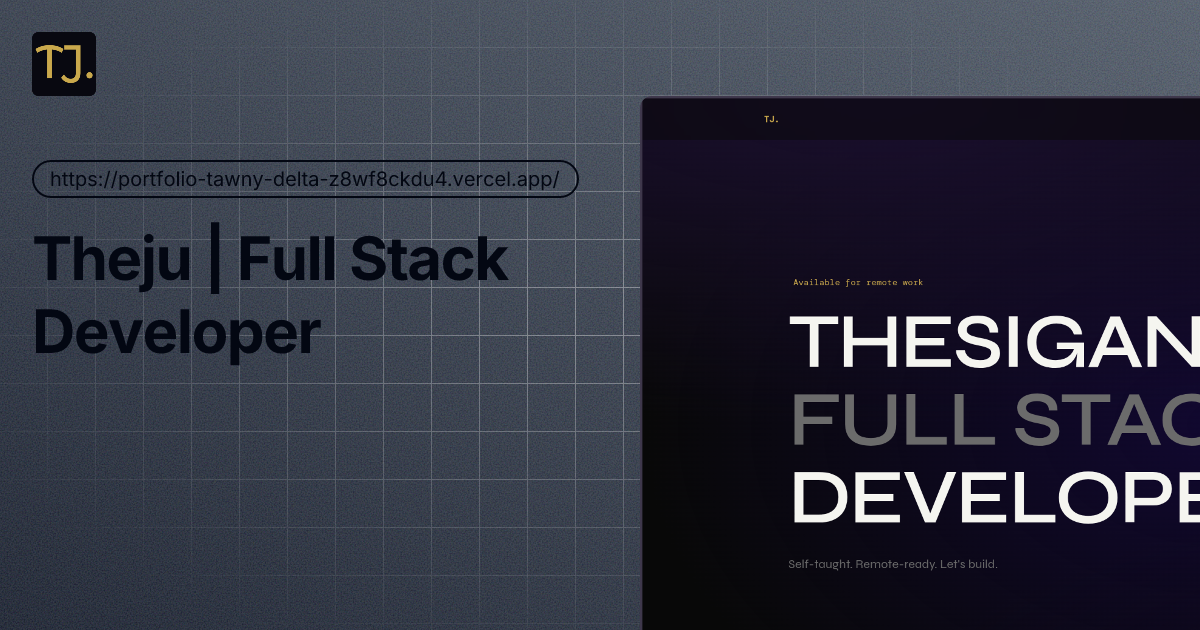
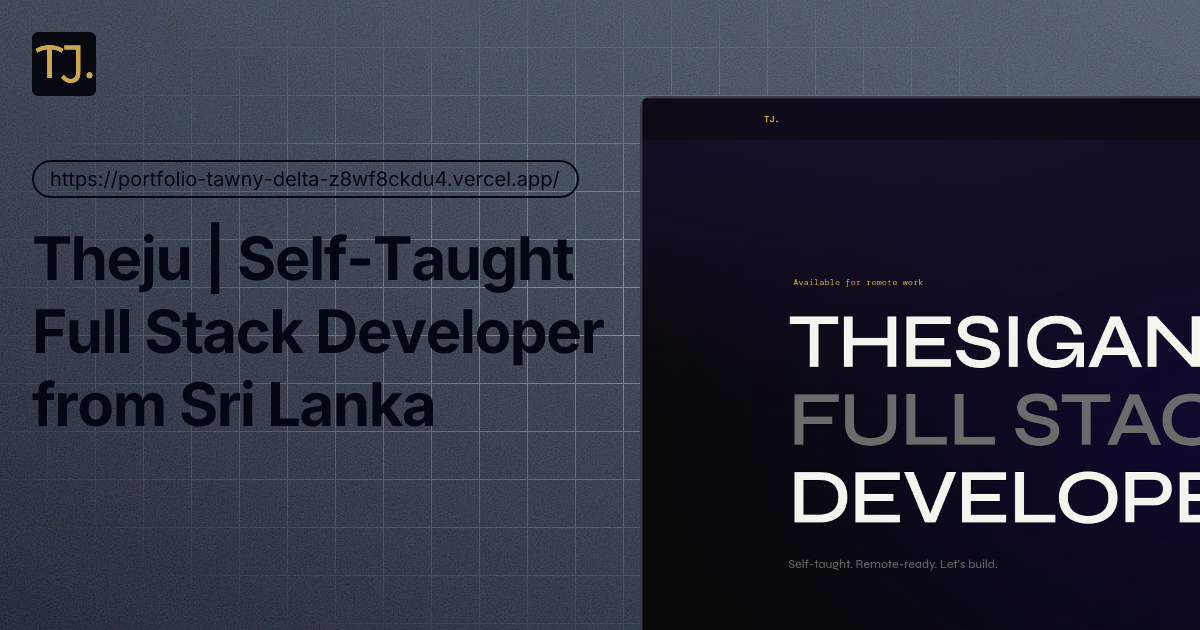
Updated the Og Picture

Changed region(s): [[0.0308, 0.4825, 0.5242, 0.573], [0.0308, 0.6032, 0.37, 0.6937], [0.185, 0.3619, 0.4933, 0.4825]]

diff --git a/app/layout.tsx b/app/layout.tsx
@@ -41,7 +41,7 @@ export const metadata: Metadata = {
     siteName: 'Theju Portfolio',
     images: [
       {
-        url: '/og/og.png',
+        url: '/og/og.webp',
         width: 1200,
         height: 630,
         alt: 'Theju | Full Stack Developer',
@@ -54,7 +54,7 @@ export const metadata: Metadata = {
     title: 'Theju | Full Stack Developer',
     description:
       'Self-taught full stack developer from Sri Lanka. Building production-ready web apps with Next.js, React, Node.js, Express.js, and MongoDB.',
-    images: ['/og/og.png'],
+    images: ['/og/og.webp'],
   },
 }
 